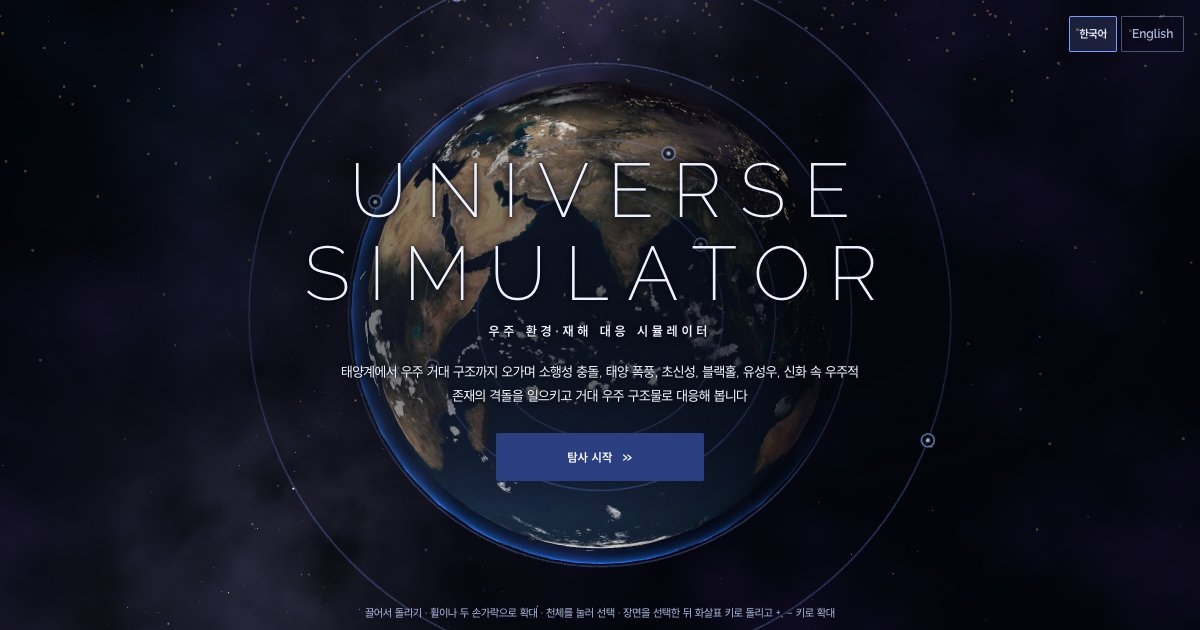
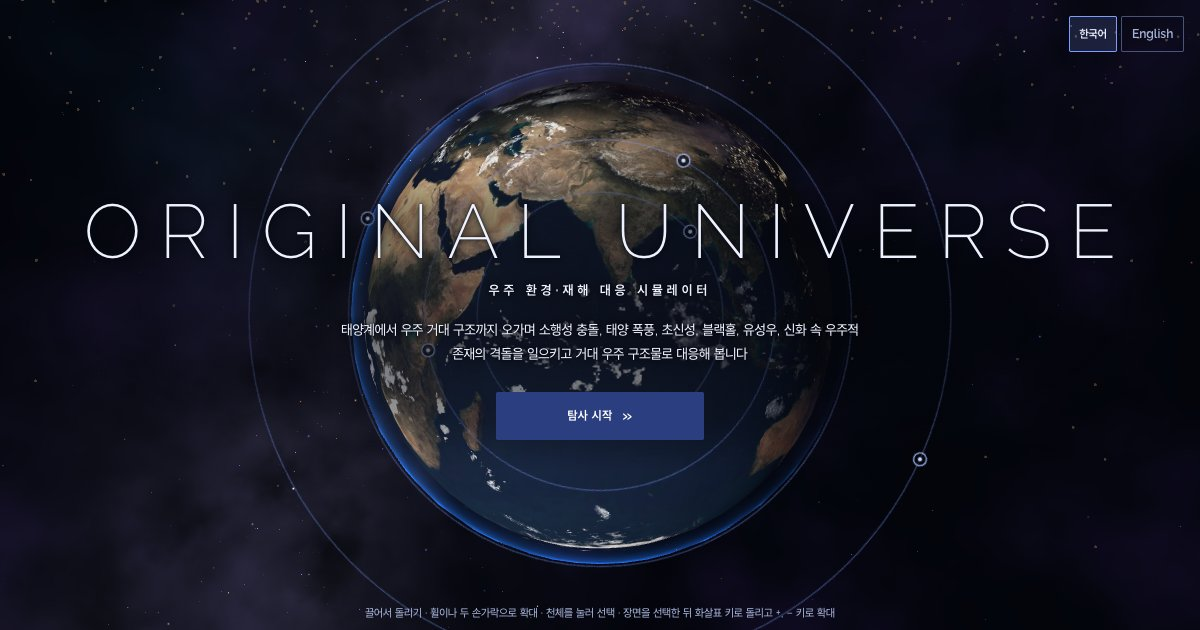
chore: 프로젝트 이름을 Original Universe로 (1.0.1) (#14)
* chore: 프로젝트 이름을 Original Universe로 (1.0.1)

- 저장소 이름 Universe_Simulator → Original_Universe에 맞춰 Pages 경로(BASE_PATH), README·배포 문서 주소, canonical·Open Graph, 저장소 링크를 바꿈
- 제목·첫 화면 큰 제목·홈 화면 앱 이름·파비콘 제목·패키지 이름을 새 이름으로
- 저장 목록·언어 설정 키를 original-universe:*로 바꾸고 옛 키 값을 한 번 옮김(moveStorageKey, 단위 테스트 4개)
- 서비스 워커가 범위 밖(옛 주소)에서 받아 둔 캐시 항목을 지움
- 변경 기록 1.0.1

* docs: 새 이름으로 공유 그림·소개 화면 다시 찍기

---------

diff --git a/public/sw.js b/public/sw.js
@@ -1,8 +1,9 @@
-// UNIVERSE SIMULATOR 서비스 워커: 다시 방문하면 코드·텍스처를 캐시에서 바로 씁니다.
+// ORIGINAL UNIVERSE 서비스 워커: 다시 방문하면 코드·텍스처를 캐시에서 바로 씁니다.
 // - 페이지(HTML): 네트워크 먼저, 끊기면 캐시
 // - 해시가 붙은 코드(assets/)와 텍스처(textures/): 캐시 먼저
 // - 새 버전이 켜질 때 지금 묶음에 없는 옛 코드 파일과, 바뀐 텍스처 캐시를 지웁니다
 //   (지우지 않으면 배포마다 옛 파일이 쌓여 저장 공간을 계속 차지함)
+// - 이름을 바꾸기 전 주소(/Universe_Simulator/)에서 받아 둔 파일도 지웁니다
 
 // 빌드 때 scripts/finalize-sw.mjs가 지금 묶음의 해시 파일 목록과 텍스처 해시로 바꿉니다.
 const MANIFEST = /* SW_MANIFEST */ { assets: [], textures: 'dev' }
@@ -19,19 +20,30 @@ self.addEventListener('install', (event) => {
   self.skipWaiting()
 })
 
-/** 지금 묶음에 없는 해시 파일 (목록이 비어 있으면 빌드 전이므로 지우지 않음) */
-async function pruneAssets() {
-  if (MANIFEST.assets.length === 0) return
+/**
+ * 지울 항목: 지금 범위 밖의 주소(이름을 바꾸기 전 주소에서 받은 페이지·코드·텍스처)와,
+ * 지금 묶음에 없는 해시 파일 (목록이 비어 있으면 빌드 전이므로 해시 파일은 지우지 않음)
+ */
+function isStale(name, request, keep) {
+  const { pathname } = new URL(request.url)
+  if (!pathname.startsWith(SCOPE)) return true
+  if (name !== ASSET_CACHE || keep.size === 0) return false
+  const path = pathname.slice(SCOPE.length)
+  return path.startsWith('assets/') && !keep.has(path)
+}
+
+async function pruneEntries() {
   const keep = new Set(MANIFEST.assets)
-  const cache = await caches.open(ASSET_CACHE)
-  const requests = await cache.keys()
   await Promise.all(
-    requests
-      .filter((request) => {
-        const path = new URL(request.url).pathname.slice(SCOPE.length)
-        return path.startsWith('assets/') && !keep.has(path)
-      })
-      .map((request) => cache.delete(request)),
+    [...CURRENT].map(async (name) => {
+      const cache = await caches.open(name)
+      const requests = await cache.keys()
+      await Promise.all(
+        requests
+          .filter((request) => isStale(name, request, keep))
+          .map((request) => cache.delete(request)),
+      )
+    }),
   )
 }
 
@@ -47,7 +59,7 @@ self.addEventListener('activate', (event) => {
             .map((key) => caches.delete(key)),
         ),
       )
-      .then(pruneAssets)
+      .then(pruneEntries)
       .catch(() => {})
       .then(() => self.clients.claim()),
   )

diff --git a/index.html b/index.html
@@ -3,7 +3,7 @@
   <head>
     <meta charset="utf-8" />
     <meta name="viewport" content="width=device-width, initial-scale=1" />
-    <title>UNIVERSE SIMULATOR · 우주 환경·재해 대응 시뮬레이터</title>
+    <title>ORIGINAL UNIVERSE · 우주 환경·재해 대응 시뮬레이터</title>
     <meta
       name="description"
       content="태양계부터 우주 거대 구조까지 오가며 소행성 충돌, 태양 폭풍, 초신성, 블랙홀, 유성우와 신화 속 우주적 존재의 격돌을 일으키고 다이슨 스웜 같은 우주 구조물로 대응해 보는 3D 우주 시뮬레이터"
@@ -12,13 +12,13 @@
     <!-- 검색·공유 미리보기 (카카오톡·슬랙 등). 공유 링크(?s=)도 같은 첫 화면을 가리킴 -->
     <link
       rel="canonical"
-      href="https://ryushin01.github.io/Universe_Simulator/"
+      href="https://ryushin01.github.io/Original_Universe/"
     />
     <meta property="og:type" content="website" />
-    <meta property="og:site_name" content="UNIVERSE SIMULATOR" />
+    <meta property="og:site_name" content="ORIGINAL UNIVERSE" />
     <meta
       property="og:title"
-      content="UNIVERSE SIMULATOR · 우주 환경·재해 대응 시뮬레이터"
+      content="ORIGINAL UNIVERSE · 우주 환경·재해 대응 시뮬레이터"
     />
     <meta
       property="og:description"
@@ -26,17 +26,17 @@
     />
     <meta
       property="og:url"
-      content="https://ryushin01.github.io/Universe_Simulator/"
+      content="https://ryushin01.github.io/Original_Universe/"
     />
     <meta
       property="og:image"
-      content="https://ryushin01.github.io/Universe_Simulator/og-image.jpg"
+      content="https://ryushin01.github.io/Original_Universe/og-image.jpg"
     />
     <meta property="og:image:width" content="1200" />
     <meta property="og:image:height" content="630" />
     <meta
       property="og:image:alt"
-      content="지구와 동심 궤도선 위에 UNIVERSE SIMULATOR 제목과 탐사 시작 버튼이 있는 소개 화면"
+      content="지구와 동심 궤도선 위에 ORIGINAL UNIVERSE 제목과 탐사 시작 버튼이 있는 소개 화면"
     />
     <meta property="og:locale" content="ko_KR" />
     <meta property="og:locale:alternate" content="en_US" />

diff --git a/src/shared/lib/storage.test.ts b/src/shared/lib/storage.test.ts
@@ -1,0 +1,41 @@
+import { describe, expect, it } from 'vitest'
+import { moveStorageKey } from './storage'
+
+function memoryStorage(initial: Record<string, string> = {}) {
+  const data = new Map(Object.entries(initial))
+  return {
+    data,
+    getItem: (key: string) => data.get(key) ?? null,
+    setItem: (key: string, value: string) => void data.set(key, value),
+    removeItem: (key: string) => void data.delete(key),
+  }
+}
+
+describe('moveStorageKey', () => {
+  it('옛 키의 값을 새 키로 옮기고 옛 키를 지운다', () => {
+    const storage = memoryStorage({ old: 'saves' })
+    moveStorageKey(storage, 'old', 'new')
+    expect(Object.fromEntries(storage.data)).toEqual({ new: 'saves' })
+  })
+
+  it('새 키에 값이 있으면 새 값을 두고 옛 키만 지운다', () => {
+    const storage = memoryStorage({ old: 'ko', new: 'en' })
+    moveStorageKey(storage, 'old', 'new')
+    expect(Object.fromEntries(storage.data)).toEqual({ new: 'en' })
+  })
+
+  it('옛 키가 없으면 아무것도 바꾸지 않는다', () => {
+    const storage = memoryStorage({ new: 'en' })
+    moveStorageKey(storage, 'old', 'new')
+    expect(Object.fromEntries(storage.data)).toEqual({ new: 'en' })
+  })
+
+  it('새 키에 쓰지 못하면 옛 값을 지우지 않는다', () => {
+    const storage = memoryStorage({ old: 'saves' })
+    storage.setItem = () => {
+      throw new Error('QuotaExceededError')
+    }
+    moveStorageKey(storage, 'old', 'new')
+    expect(Object.fromEntries(storage.data)).toEqual({ old: 'saves' })
+  })
+})

diff --git a/e2e/universe.spec.ts b/e2e/universe.spec.ts
@@ -34,9 +34,9 @@ test.describe('첫 화면', () => {
     const errors: string[] = []
     page.on('pageerror', (e) => errors.push(e.message))
     await page.goto('/')
-    await expect(page).toHaveTitle(/UNIVERSE SIMULATOR/)
+    await expect(page).toHaveTitle(/ORIGINAL UNIVERSE/)
     await expect(page.getByRole('heading', { level: 1 })).toHaveText(
-      /Universe Simulator/i,
+      /Original Universe/i,
     )
     await expect(page.locator('html')).toHaveAttribute('lang', 'ko')
     // 3D는 렌더링 워커가 그림. 소프트웨어 WebGL(SwiftShader)은 컨텍스트를 만드는 데만
@@ -114,7 +114,7 @@ test.describe('첫 화면', () => {
     await page.goto('/')
     const meta = (property: string) =>
       page.locator(`meta[property="${property}"]`).getAttribute('content')
-    expect(await meta('og:title')).toMatch(/UNIVERSE SIMULATOR/)
+    expect(await meta('og:title')).toMatch(/ORIGINAL UNIVERSE/)
     expect(await meta('og:description')).toBeTruthy()
     const image = await meta('og:image')
     expect(image).toMatch(/\/og-image\.jpg$/)

diff --git a/src/shared/i18n/locale.ts b/src/shared/i18n/locale.ts
@@ -1,9 +1,12 @@
 import { createEffect, createRoot, createSignal } from 'solid-js'
+import { moveStorageKey } from '../lib/storage'
 
 export type Locale = 'ko' | 'en'
 
 export const LOCALES: Locale[] = ['ko', 'en']
-const STORAGE_KEY = 'universe-simulator:locale'
+const STORAGE_KEY = 'original-universe:locale'
+/** 이름을 바꾸기 전(1.0.0까지)의 키. 처음 불러올 때 STORAGE_KEY로 옮김 */
+const LEGACY_STORAGE_KEY = 'universe-simulator:locale'
 
 // 사전 렌더링은 한국어, 브라우저에서 저장된 값으로 바꿉니다
 const [locale, setLocaleSignal] = createSignal<Locale>('ko')
@@ -26,6 +29,7 @@ export function syncLocale() {
   if (synced || typeof window === 'undefined') return
   synced = true
   try {
+    moveStorageKey(window.localStorage, LEGACY_STORAGE_KEY, STORAGE_KEY)
     const saved = window.localStorage.getItem(STORAGE_KEY)
     if (saved === 'ko' || saved === 'en') setLocaleSignal(saved)
   } catch {

diff --git a/src/shared/lib/storage.ts b/src/shared/lib/storage.ts
@@ -1,0 +1,19 @@
+/**
+ * 옛 키에 저장된 값을 새 키로 옮기고 옛 키를 지웁니다. 새 키에 이미 값이 있으면 새 값을 그대로 둡니다.
+ * 이름을 바꾼 뒤(Universe Simulator → Original Universe)에도 저장 목록·언어 설정을 이어 쓰려고 씁니다.
+ * 저장소를 쓸 수 없거나(사생활 보호 모드 등) 새 키에 쓰지 못하면 옛 값을 지우지 않습니다.
+ */
+export function moveStorageKey(
+  storage: Pick<Storage, 'getItem' | 'setItem' | 'removeItem'>,
+  from: string,
+  to: string,
+) {
+  try {
+    const old = storage.getItem(from)
+    if (old === null) return
+    if (storage.getItem(to) === null) storage.setItem(to, old)
+    storage.removeItem(from)
+  } catch {
+    // 옮기지 못하면 옛 값을 그대로 둠
+  }
+}

diff --git a/src/pages/universe/ui/UniversePage.tsx b/src/pages/universe/ui/UniversePage.tsx
@@ -63,7 +63,7 @@ export function UniversePage() {
     }
   })
   createEffect(() => {
-    if (!isServer) document.title = `UNIVERSE SIMULATOR · ${t('page.tagline')}`
+    if (!isServer) document.title = `ORIGINAL UNIVERSE · ${t('page.tagline')}`
   })
 
   const inertDuringIntro = () => (intro() ? true : undefined)
@@ -87,7 +87,7 @@ export function UniversePage() {
       </Show>
       <header class={styles.header}>
         <div class={styles.brand}>
-          <h1 class={styles.title}>Universe Simulator</h1>
+          <h1 class={styles.title}>Original Universe</h1>
           <p class={styles.tagline}>{t('page.tagline')}</p>
           <Show when={intro()}>
             <p class={styles.lead}>{t('page.lead')}</p>

diff --git a/src/pages/universe/ui/status/ScenarioShare.tsx b/src/pages/universe/ui/status/ScenarioShare.tsx
@@ -1,8 +1,10 @@
 import { For, Show, createSignal, onMount } from 'solid-js'
 import { locale } from '@/shared/i18n'
+import { moveStorageKey } from '@/shared/lib'
 import { Button, StatusMessage } from '@/shared/ui'
 import { world, worldActions } from '../../model/world/store'
 import {
+  LEGACY_SAVE_KEY,
   MAX_SAVES,
   SAVE_KEY,
   SHARE_PARAM,
@@ -25,6 +27,7 @@ interface Saved {
 }
 
 function readSaves(): Saved[] {
+  moveStorageKey(window.localStorage, LEGACY_SAVE_KEY, SAVE_KEY)
   try {
     const raw = JSON.parse(window.localStorage.getItem(SAVE_KEY) ?? '[]')
     if (!Array.isArray(raw)) return []

diff --git a/src/shared/config/index.ts b/src/shared/config/index.ts
@@ -1,4 +1,4 @@
-/** 배포 경로 접두사 (GitHub Pages에서는 /Universe_Simulator/) */
+/** 배포 경로 접두사 (GitHub Pages에서는 /Original_Universe/) */
 export const BASE = import.meta.env.BASE_URL
 
 /** public 폴더의 파일 주소 */
@@ -15,4 +15,4 @@ export function prefersSmallTextures(): boolean {
   )
 }
 
-export const REPOSITORY_URL = 'https://github.com/ryushin01/Universe_Simulator'
+export const REPOSITORY_URL = 'https://github.com/ryushin01/Original_Universe'

diff --git a/src/pages/universe/model/world/snapshot.ts b/src/pages/universe/model/world/snapshot.ts
@@ -11,7 +11,9 @@ import type { RemovalReason, WorldState } from './types'
 
 /** 공유 링크의 매개변수 이름 (?s=...) */
 export const SHARE_PARAM = 's'
-export const SAVE_KEY = 'universe-simulator:saves'
+export const SAVE_KEY = 'original-universe:saves'
+/** 이름을 바꾸기 전(1.0.0까지)의 저장 키. 처음 읽을 때 SAVE_KEY로 옮김 */
+export const LEGACY_SAVE_KEY = 'universe-simulator:saves'
 export const MAX_SAVES = 8
 
 /**

diff --git a/vite.config.ts b/vite.config.ts
@@ -1,7 +1,7 @@
 import { defineConfig } from 'vite'
 import solid from 'vite-plugin-solid'
 
-// GitHub Pages처럼 하위 경로에 올릴 때 BASE_PATH=/Universe_Simulator/ 로 빌드
+// GitHub Pages처럼 하위 경로에 올릴 때 BASE_PATH=/Original_Universe/ 로 빌드
 const base = process.env.BASE_PATH ?? '/'
 
 // Lightning CSS 대상 브라우저 (주 버전 << 16 | 부 버전 << 8)

diff --git a/src/pages/universe/ui/messages.ts b/src/pages/universe/ui/messages.ts
@@ -1,7 +1,7 @@
 /** 화면 문구: [한국어, 영어] */
 export const MESSAGES = {
   // 페이지
-  'page.title': ['UNIVERSE SIMULATOR', 'UNIVERSE SIMULATOR'],
+  'page.title': ['ORIGINAL UNIVERSE', 'ORIGINAL UNIVERSE'],
   'page.tagline': [
     '우주 환경·재해 대응 시뮬레이터',
     'Cosmic hazards & megastructures simulator',
